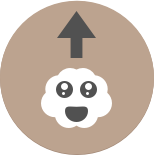
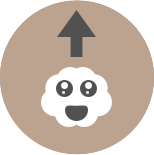
Send Button Animation

diff --git a/WeMagine/AddIdeaController.swift b/WeMagine/AddIdeaController.swift
@@ -16,8 +16,11 @@ class AddIdeaController: UIViewController, UIGestureRecognizerDelegate, UITextVi
     var menuViewHidden: Bool = true
     var textField: UITextView = UITextView()
     var sendYourIdea: UIImageView = UIImageView()
+    var cloudImageView: UIImageView = UIImageView()
+    var happyCloudImageView: UIImageView = UIImageView()
     
-    var cloudY = CGFloat()
+    var barHeight:CGFloat = CGFloat()
+    var topHeight:CGFloat = 44.0
     
     override func viewDidLoad() {
         
@@ -32,10 +35,9 @@ class AddIdeaController: UIViewController, UIGestureRecognizerDelegate, UITextVi
         var y: CGFloat
         var fontSize: CGFloat
         
-        var barHeight:CGFloat = app.statusBarFrame.size.height
-        var topHeight:CGFloat = 44.0
+        barHeight = app.statusBarFrame.size.height
         
-//        Top rectangle
+//      Top rectangle
         
         width = (375.0 * prop) + 2
         height = (topHeight + barHeight) + 2
@@ -106,16 +108,21 @@ class AddIdeaController: UIViewController, UIGestureRecognizerDelegate, UITextVi
         x = verifyPosition((sizeRect.size.width - width)/2)
         y = verifyPosition((349*prop - height)/2 + topHeight + barHeight)
         
-        cloudY = y
-        
         var cloudImage: UIImage = UIImage(named: "Cloud@3x.png")!
-        var cloudImageView: UIImageView = UIImageView(image: cloudImage)
+        cloudImageView = UIImageView(image: cloudImage)
         cloudImageView.frame = CGRectMake(x,y,width,height)
         cloudImageView.userInteractionEnabled = true
+        cloudImageView.alpha = 1
         self.view.addSubview(cloudImageView)
         
+        var happyImage:UIImage = UIImage(named: "HappyUpCloud1@3x.png")!
+        happyCloudImageView = UIImageView(image: happyImage)
+        happyCloudImageView.frame = CGRectMake(0, 0, width, height)
+        happyCloudImageView.alpha = 0
         
-//        Text Field
+        cloudImageView.addSubview(happyCloudImageView)
+        
+//      Text Field
         
         width = verifyPosition(cloudImageView.frame.size.width/1.28)
         height = verifyPosition(cloudImageView.frame.size.height/1.8)
@@ -134,9 +141,10 @@ class AddIdeaController: UIViewController, UIGestureRecognizerDelegate, UITextVi
         textField.font = UIFont(name: "HelveticaNeue", size: fontSize)
         textField.delegate = self
         textField.textAlignment = .Center
+        textField.alpha = 1
         cloudImageView.addSubview(textField)
         
-//        Send your idea
+//      Send your idea
         
         var brownHeight:CGFloat = sizeRect.size.height - (topHeight + (349 * prop))
         var buttonProp:CGFloat = brownHeight/274
@@ -203,8 +211,79 @@ class AddIdeaController: UIViewController, UIGestureRecognizerDelegate, UITextVi
     
     func newIdeaTap(recognizer: UITapGestureRecognizer) {
         
-        let secondViewController:ViewController = ViewController()
-        self.dismissViewControllerAnimated(true, completion: nil)
+        var image = UIImage(named: "SendPressedButton@3x.png")!
+        sendYourIdea.image = image
+        sendYourIdea.frame.origin.y = sendYourIdea.frame.origin.y + 4
+        
+        var timer = NSTimer.scheduledTimerWithTimeInterval(0.12, target: self, selector: Selector("upCloudAnimation"), userInfo: nil, repeats: false)
+
+    }
+    
+    func upCloudAnimation() {
+        
+        var prop: CGFloat = sizeRect.size.width/375.0
+        
+        var image = UIImage(named: "SendButton@3x.png")!
+        sendYourIdea.image = image
+        sendYourIdea.frame.origin.y = sendYourIdea.frame.origin.y - 4
+        
+        var width = 71.0 * prop
+        var height = 60.0 * prop
+        var x = (sizeRect.size.width - width)/2
+        var y = (((349 * prop) - height)/2) + topHeight + barHeight
+        
+        UIView.animateWithDuration(0.2, animations: {
+            
+            //Zero
+            self.textField.alpha = 0
+            
+            }, completion: {
+                
+                (value: Bool) in
+                
+                UIView.animateWithDuration(0.2, animations: {
+                    
+                    //Frist
+                    self.happyCloudImageView.alpha = 1
+                    
+                    }, completion: {
+                        
+                        (value: Bool) in
+                        
+                        UIView.animateWithDuration(0.5, animations: {
+                            
+                            //Second
+                            self.cloudImageView.frame = CGRectMake(x, y, width, height)
+                            self.happyCloudImageView.frame = CGRectMake(0, 0, width, height)
+                            
+                            }, completion: {
+                                
+                                (value: Bool) in
+                                
+                                UIView.animateWithDuration(0.7, animations: {
+                                    
+                                    //Third
+                                    var image:UIImage = UIImage(named: "HappyUpCloud2@3x.png")!
+                                    self.happyCloudImageView.image = image
+                                    self.cloudImageView.frame.origin.y = 0 - 100
+                                    
+                                    }, completion: {
+                                        
+                                        (value: Bool) in
+                                        
+                                        self.cloudImageView.alpha = 0
+                                        
+                                        let secondViewController:ViewController = ViewController()
+                                        self.dismissViewControllerAnimated(true, completion: nil)
+                                        
+                                })
+                                
+                        })
+                        
+                })
+                
+        })
+        
     }
     
 }
